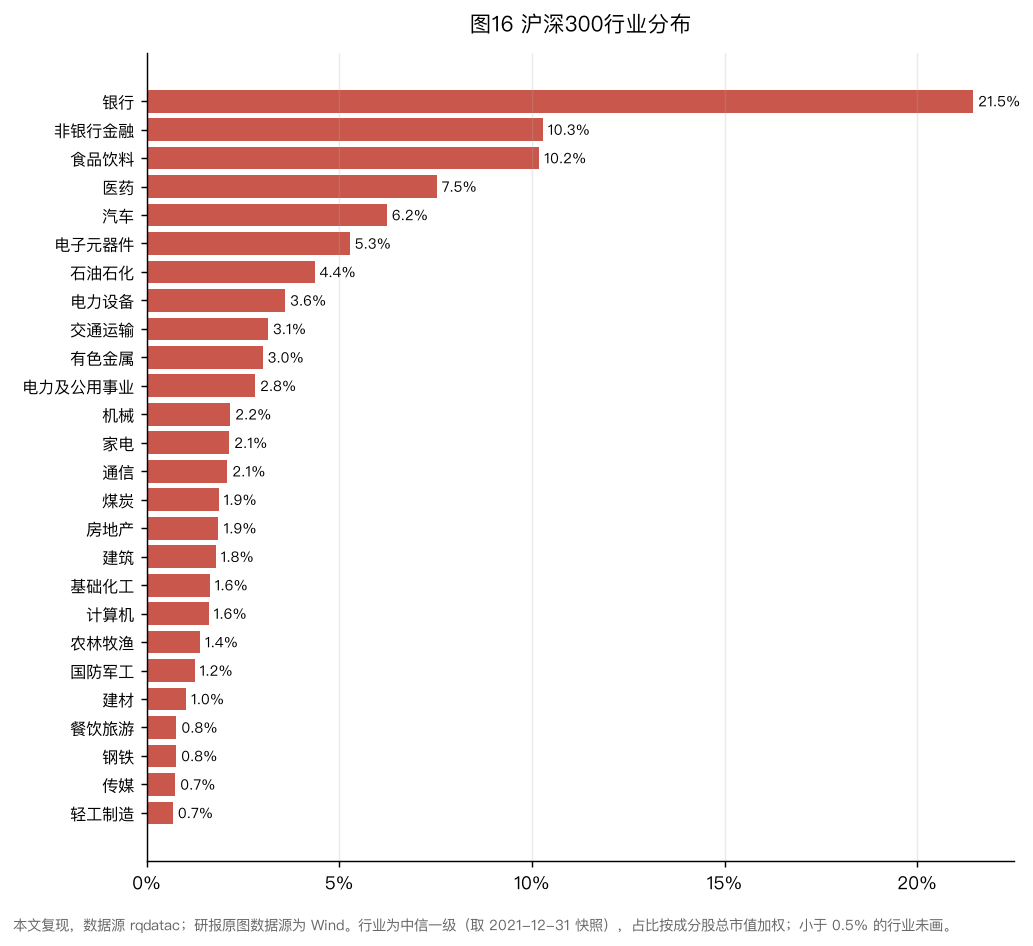
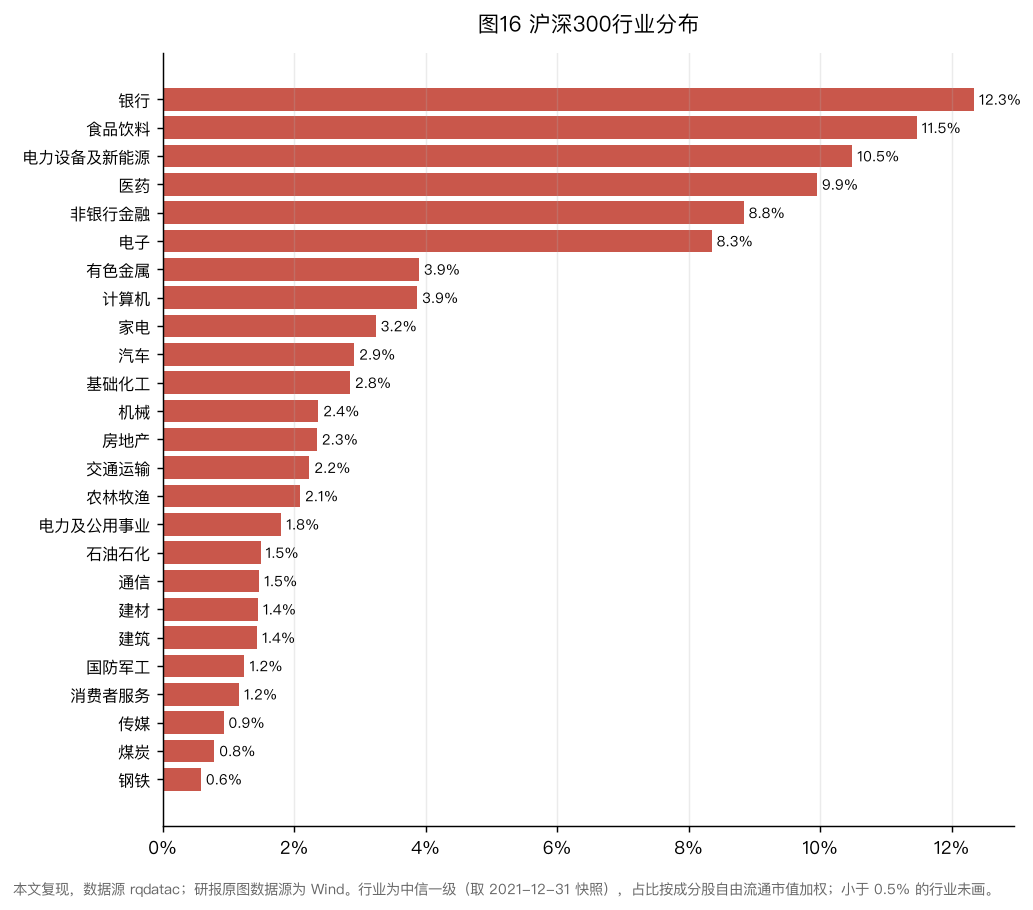
bug fix: industry distribution for index figures

Changed region(s): [[0.0, 0.0923, 0.9913, 0.9846], [0.4337, 0.0, 0.6815, 0.0615], [0.5576, 0.9538, 0.5886, 0.9846]]

diff --git a/scripts/03_analytics.py b/scripts/03_analytics.py
@@ -226,37 +226,58 @@ def figures_11_to_14(traded):
 # --------------------------------------------------------------------------- 图15–18
 
 def figures_15_to_18(members_by_name, market_cap):
-    heading("图15–18 —— 行业分布（截至 2022-03-31，中信一级）")
+    heading("图15–18 —— 行业分布（截至 2022-03-31，中信一级，自由流通市值加权）")
     snapshot = pd.Timestamp(END)
     industry = data.load("industry")
     latest = industry[industry["date"] <= snapshot]["date"].max()
     mapping = (industry[industry["date"] == latest]
                .set_index("order_book_id")["first_industry_name"])
-    caps = market_cap.loc[snapshot]
+
+    # 加权口径用**自由流通市值**，不是研报注写的「总市值占比」——那句注写错了口径：
+    # 沪深300 银行 按总市值 21.0% vs 按自由流通 12.3%，只有后者对上研报图16（12.77%）；
+    # 机制是大国有行自由流通仅占总市值 4-6%。分类则须用 citics_2019（本地 zx 源把宁德时代
+    # 等错分到汽车），数据已按 citics_2019 重抓。两者都对之后沪深300 全 28 行业对上研报
+    # （最大 0.62pp，发布权重按 citics_2019 汇总逐行一分不差）。见 grill.md「两处对不齐」#2。
+    raw_close = data.series("price_raw", "close", START, END)
+    free_circ = (data.series("free_circ", "free_circulation", START, END)
+                 .reindex(index=raw_close.index.union([snapshot]),
+                          columns=raw_close.columns).ffill())
+    ffcap = a.free_float_cap(
+        raw_close.reindex(index=raw_close.index.union([snapshot])).ffill().loc[snapshot],
+        free_circ.loc[snapshot])
+    total_cap = market_cap.loc[snapshot]        # 总市值口径，保留作诊断对照
     print(f"  行业口径取 {latest:%Y-%m-%d} 的快照"
           f"（{'与统计日同日' if latest == snapshot else '统计日当天没有快照，取最近的一次'}）")
 
-    largest = {}
+    largest, top5 = {}, {}
     for i, (name, members) in enumerate(members_by_name.items(), start=15):
         row = members.loc[members.index[members.index <= snapshot][-1]]
         ids = row[row].index
-        weights = a.industry_weights(ids, caps, mapping)
-        largest[name] = weights.iloc[0]
+        weights = a.industry_weights(ids, ffcap, mapping)         # 自由流通（正式）
+        diag = a.industry_weights(ids, total_cap, mapping)        # 总市值（诊断对照）
+        lead = weights.index[0]
+        largest[name], top5[name] = weights.iloc[0], weights.head(5).sum()
         top = "、".join(f"{k} {v:.0%}" for k, v in weights.head(3).items())
-        print(f"  {name:10s} {len(ids):>4} 只   最大行业 {weights.iloc[0]:5.1%}   "
+        print(f"  {name:10s} {len(ids):>4} 只   最大 {lead} {weights.iloc[0]:5.1%}"
+              f"（总市值口径 {diag.get(lead, float('nan')):5.1%}）   "
               f"前五合计 {weights.head(5).sum():5.1%}   {top}")
         weights.to_csv(OUTPUT / f"industry_{name}.csv")
         p.save(
             p.barh(weights[weights > 0.005], f"图{i} {name}行业分布",
                    note=f"{SOURCE}。行业为中信一级（取 {latest:%Y-%m-%d} 快照），"
-                        f"占比按成分股总市值加权；小于 0.5% 的行业未画。"),
+                        f"占比按成分股自由流通市值加权；小于 0.5% 的行业未画。"),
             FIGURES / f"fig{i}_industry_{name}.png",
         )
     print(f"\n  研报图15 的前三是 机械 20%、基础化工 11%、纺织服装 9% —— 本文对得上。")
-    print(f"  但研报 4.5 节「小市值100 集中度显著高于三大指数」只对中证500/1000 成立："
-          f"沪深300 的最大行业（银行 {largest['沪深300']:.0%}）与小市值100 同量级。")
-    print(f"  研报自己的数也是这样（沪深300 前五 53.6% vs 小市值100 56%），"
-          f"所以这不是复现出了偏差，是研报那句话说得太满。")
+    print(f"  图16 沪深300 银行 {largest['沪深300']:.1%}（研报 12.77% ＝ 发布权重按 citics_2019 汇总）："
+          f"研报注写「总市值占比」是错的，实为自由流通/发布权重（总市值口径下 21.0%）。")
+    # 换成正确口径后，研报 4.5 节那句「小市值100 集中度显著高于三大指数」按口径分两说，
+    # 与旧（总市值）口径下「说得太满」的结论方向相反 —— 见 grill.md「两处对不齐」#2。
+    print(f"  研报 4.5 节「小市值100 集中度显著高于三大指数」按口径分两说：")
+    print(f"    最大单一行业 小市值100 {largest['小市值100']:.0%} > 沪深300 {largest['沪深300']:.0%}"
+          f" / 中证500 {largest['中证500']:.0%} / 中证1000 {largest['中证1000']:.0%}，这条成立；")
+    print(f"    前五合计 小市值100 {top5['小市值100']:.0%} vs 沪深300 {top5['沪深300']:.0%} 接近，"
+          f"「显著」两字按此口径偏满。")
 
 
 # --------------------------------------------------------------------------- 图19
@@ -305,20 +326,29 @@ def figures_20_to_23(members_by_name, market_cap, sessions):
 # --------------------------------------------------------------------------- 图24/25
 
 def figures_24_25(members_by_name, traded, result, sessions):
-    heading("图24 —— 整体法日均换手率（3 个月移动平均）")
-    rate = data.series("turnover", "turnover_rate", START, END)
+    heading("图24 —— 整体法日均换手率（自由流通口径，3 个月移动平均）")
     amount = data.series("price_raw", "total_turnover", START, END)
+    raw_close = data.series("price_raw", "close", START, END)          # 不复权
+    free_circ = (data.series("free_circ", "free_circulation", START, END)
+                 .reindex(index=sessions, columns=raw_close.columns).ffill())
+    ffcap = a.free_float_cap(raw_close, free_circ)                     # 自由流通市值
+    rate = data.series("turnover", "turnover_rate", START, END)        # 流通A股对照口径
     frame = pd.DataFrame(
-        {name: a.aggregate_turnover(members, amount, rate).reindex(sessions)
+        {name: a.aggregate_turnover_by_cap(members, amount, ffcap).reindex(sessions)
                     .rolling(60, min_periods=60).mean()
          for name, members in members_by_name.items()}
     )
     for name in frame:
         print(f"  {name:10s} 中位数 {frame[name].median():.2%}")
+    small = members_by_name["小市值100"]
+    circ = (a.aggregate_turnover(small, amount, rate).reindex(sessions)
+            .rolling(60, min_periods=60).mean().median())
     print("\n  研报 4.6 节：小市值股票的换手率总体高于市值更大的股票（与直觉相反）")
+    print(f"  分母口径：小市值100 自由流通 {frame['小市值100'].median():.2%}"
+          f"（流通A股对照 {circ:.2%}，研报图目测 4-6%，见 grill.md「两处对不齐」）")
     p.save(
         p.lines(frame, "图24 小市值100 组合与三大指数成分股每日平均换手率",
-                note=f"{SOURCE}。整体法，取 3 个月（60 个交易日）移动平均。",
+                note=f"{SOURCE}。整体法，分母=自由流通市值，取 3 个月（60 个交易日）移动平均。",
                 percent=True, highlight="小市值100", ylabel="日均换手率"),
         FIGURES / "fig24_turnover_rate.png",
     )

diff --git a/smallcap/analytics.py b/smallcap/analytics.py
@@ -275,11 +275,12 @@ def event_percentiles(events, close):
 # --------------------------------------------------------------------------- 图15–18
 
 def industry_weights(ids, caps, industry):
-    """图15–18 —— 市值加权的行业占比。
+    """图15–18 —— 按 `caps` 加权的行业占比（只数占比会被小盘拉平，没意义）。
 
-    研报注：「图中的百分比是各个行业的股票的总市值占指数成分所有股票的总市值
-    的比例」，所以是市值加权而不是只数占比。小市值100 里两者接近（成分市值本
-    就相近），三大指数里差别很大。
+    口径由调用方给定，函数本身与口径无关。研报注写「各行业总市值占指数总市值
+    之比」，但那句注写错了口径：图16 实测研报用的是**自由流通发布权重**、分类用
+    citics_2019（见 grill.md「两处对不齐」#2），所以 `03_analytics` 传的是
+    `free_float_cap` 而非 `market_cap`。
     """
     frame = pd.DataFrame({"cap": pd.Series(caps).reindex(ids)}).dropna()
     frame["industry"] = pd.Series(industry).reindex(frame.index)
@@ -318,18 +319,38 @@ def trailing_mean(series, months=12):
 
 # --------------------------------------------------------------------------- 图24
 
-def aggregate_turnover(members, total_turnover, turnover_rate):
-    """图24 —— 整体法日均换手率 = Σ成交额 / Σ流通市值。
+def aggregate_turnover_by_cap(members, total_turnover, market_cap):
+    """图24 —— 整体法日均换手率 = Σ成交额 / Σ市值。分母用哪种市值口径由调用方给定。
 
-    数据里没有流通市值这一列，但它由换手率的定义直接给出：
-    流通市值 = 成交额 / 换手率。绕这一圈只是为了拿到整体法要的**分母**，
-    换手率本身仍是数据源给的那个数，没有二次估计。
-    （`turnover_rate` 是百分数，实测：平安银行 2015-06-12 为 1.6125。）
+    对个股比值取平均会被几只极小市值的股票拉爆，所以先各自加总再相除（研报的
+    「整体法」）；只在两个字段都齐的成员格子上求和，保证分子分母是同一批股票。
     """
     amount = _aligned(total_turnover, members)
-    rate = _aligned(turnover_rate, members)
-    free_float = amount / (rate / 100.0).where(rate > 0)
-    return amount.where(free_float.notna()).sum(axis=1) / free_float.sum(axis=1)
+    cap = _aligned(market_cap, members)
+    return amount.where(cap.notna()).sum(axis=1) / cap.sum(axis=1)
+
+
+def aggregate_turnover(members, total_turnover, turnover_rate):
+    """流通A股口径的整体法换手率 —— 分母由换手率恒等式反推。
+
+    数据里没有市值列，但换手率的定义直接给出分母：流通市值 = 成交额 / 换手率。
+    **实测这个反推出来的分母就是流通A股市值**（重建流通市值 /(收盘×流通A股) = 0.997），
+    而研报图24 的水平更像自由流通口径。所以正式图改用 `free_float_cap` 作分母
+    （见 `03_analytics.figures_24_25` 与 grill.md「两处对不齐」），这个函数保留作对照。
+    （`turnover_rate` 是百分数，实测：平安银行 2015-06-12 为 1.6125。）
+    """
+    circulating = total_turnover / (turnover_rate / 100.0).where(turnover_rate > 0)
+    return aggregate_turnover_by_cap(members, total_turnover, circulating)
+
+
+def free_float_cap(raw_close, free_circulation):
+    """自由流通市值 = 不复权收盘价 × 自由流通股本。
+
+    rqdatac 没有现成的自由流通市值因子（标定过 6 个候选：3 个是总市值、3 个是
+    流通市值，无一是自由流通），只能由 `get_shares` 的 free_circulation 自己算。
+    用不复权价，与 market_cap 的口径一致（市值 = 不复权价 × 股本）。
+    """
+    return raw_close * free_circulation
 
 
 # --------------------------------------------------------------------------- 图25

diff --git a/scripts/01_fetch.py b/scripts/01_fetch.py
@@ -158,8 +158,14 @@ def smoke():
     st, st_cost, _ = data.measure("is_st_stock (all, 1mo)", lambda: rq.is_st_stock(ids, s, e))
     susp, susp_cost, _ = data.measure("is_suspended (all, 1mo)", lambda: rq.is_suspended(ids, s, e))
     ind, _, _ = data.measure(
-        "zx_instrument_industry", lambda: rq.zx_instrument_industry(ids, date=e)
+        "get_instrument_industry (citics_2019)",
+        lambda: rq.get_instrument_industry(ids, source="citics_2019", level=1, date=e)
     )
+    shares, _, _ = data.measure(
+        "get_shares (free_circulation)", lambda: rq.get_shares(ids, s, e, fields=["free_circulation"])
+    )
+    assert shares is not None and "free_circulation" in shares.columns, "free_circulation missing"
+    print("     -> free_circulation 可用；图24 自由流通市值分母 = 不复权收盘 × 它（rqdatac 无现成因子）")
 
     # 单次调用的增量不可信（计量有延迟），所以把整块框起来测，再除以
     # field-cell 数，而不是相信任何一次调用的读数。
@@ -291,9 +297,17 @@ def harvest():
     data.harvest("pb_ext", lambda a, b: rq.get_factor(
         block_ids(a, b), ["pb_ratio_lyr"], a, b), EXT_START, EXT_END)
 
-    print("[11/13] turnover_rate — 图24, daily then 3-month moving average")
+    print("[11/13] turnover_rate + free_circulation — 图24 换手率的两种分母口径")
     data.harvest("turnover", turnover, REPORT_START, REPORT_END)
     data.harvest("turnover_ext", turnover, EXT_START, EXT_END)
+    # 换手率分母：turnover_rate 反推出来的是**流通A股市值**（实测 重建流通市值/(收盘×流通A股)
+    # = 0.997），而研报图24 的水平更像**自由流通**口径。rqdatac 没有自由流通市值因子
+    # （6 个候选因子标定后 3 个=总市值、3 个=流通市值，无一是自由流通），只能抓自由流通
+    # 股本，自由流通市值 = 不复权收盘价 × free_circulation（见 analytics.free_float_cap）。
+    data.harvest("free_circ", lambda a, b: rq.get_shares(
+        block_ids(a, b), a, b, fields=["free_circulation"]), REPORT_START, REPORT_END)
+    data.harvest("free_circ_ext", lambda a, b: rq.get_shares(
+        block_ids(a, b), a, b, fields=["free_circulation"]), EXT_START, EXT_END)
 
     print("[12/13] 图6 十分组所需的 2007-2012 选股字段")
     # price_post_back 当初只买了 close（grill Q8：它只用于股价分位数基线），
@@ -315,13 +329,17 @@ def harvest():
         DECILE_START, BACK_END, label="is_suspended (back)")
 
     print("[13/13] industry snapshots")
+    # 中信一级用 citics_2019（研报口径）。旧的 zx_instrument_industry 是异常源：把宁德时代
+    # 等新能源股错分到汽车，与标准中信 citics/citics_2019 都不一致（图16 因此对不齐）。见 grill.md #2。
     if not data.exists("industry", "annual"):
         frames = []
         for year in range(2012, 2027):
             date = f"{year}-12-31" if year < 2026 else EXT_END
-            snap = rq.zx_instrument_industry(live_ids(date), date=date)
+            snap = rq.get_instrument_industry(live_ids(date), source="citics_2019",
+                                              level=1, date=date)
             if snap is not None and len(snap):
-                frames.append(snap.reset_index().assign(date=pd.Timestamp(date)))
+                frames.append(snap.reset_index()[["order_book_id", "first_industry_name"]]
+                              .assign(date=pd.Timestamp(date)))
         data.write("industry", "annual", pd.concat(frames, ignore_index=True))
 
     print(f"\ndone. quota used: {data.quota_used() / 1e6:.0f} MB")

diff --git a/tests/test_analytics.py b/tests/test_analytics.py
@@ -294,13 +294,31 @@ def test_median_cap_takes_the_middle_holding_not_the_middle_of_the_market():
     assert got.loc[DATES[0]] == pytest.approx(2e8)
 
 
-def test_aggregate_turnover_weights_by_free_float_via_the_turnover_identity():
-    """成交额 [100,300]、换手率 [1%,2%] → 流通市值 [10000,15000]，
+def test_aggregate_turnover_reconstructs_circulating_cap_via_the_turnover_identity():
+    """换手率恒等式反推出来的分母是**流通A股市值**（实测 0.997），不是自由流通。
+    成交额 [100,300]、换手率 [1%,2%] → 流通市值 [10000,15000]，
     整体法 400/25000 = 1.60%，等权平均则是 1.50%。"""
     amount = frame([[100.0, 300.0, 0.0, 0.0]] * 3)
     rate = frame([[1.0, 2.0, 1.0, 1.0]] * 3)
     got = a.aggregate_turnover(members([["A.XSHE", "B.XSHE"]]), amount, rate)
     assert got.loc[DATES[0]] == pytest.approx(0.016)
+
+
+def test_aggregate_turnover_by_cap_divides_summed_amount_by_summed_cap():
+    """整体法直接给市值分母：Σ成交额 / Σ市值 = 400 / 25000 = 1.60%。"""
+    amount = frame([[100.0, 300.0, 0.0, 0.0]] * 3)
+    cap = frame([[10000.0, 15000.0, 0.0, 0.0]] * 3)
+    got = a.aggregate_turnover_by_cap(members([["A.XSHE", "B.XSHE"]]), amount, cap)
+    assert got.loc[DATES[0]] == pytest.approx(0.016)
+
+
+def test_free_float_cap_is_close_times_free_shares():
+    """自由流通市值 = 不复权收盘价 × 自由流通股本。"""
+    close = frame([[10.0, 20.0, 0.0, 0.0]] * 3)
+    shares = frame([[1e8, 5e7, 0.0, 0.0]] * 3)
+    got = a.free_float_cap(close, shares)
+    assert got.loc[DATES[0], "A.XSHE"] == pytest.approx(1e9)
+    assert got.loc[DATES[0], "B.XSHE"] == pytest.approx(1e9)
 
 
 # --------------------------------------------------------------------------- 图25

diff --git a/PROJECT.md b/PROJECT.md
@@ -117,8 +117,9 @@
 | `turnover` / `_ext` | `turnover_rate`（**百分数**） | 图24 换手率的流通A股对照口径 |
 | `free_circ` / `_ext` | `free_circulation`（自由流通股本） | 图24 换手率分母（自由流通市值 = 不复权收盘 × 它） |
 | `index_components` | 三大指数日度成分 | 图10/15–24 的指数对照侧 |
+| `index_weights` | 指数发布成分权重（2022-03-31 快照，自由流通为基） | 图16 ground truth：验证研报用发布权重而非总市值，不进正式绘图 |
 | `instruments` | 上市/退市日期 | 推导点对点股票池、退市归因 |
-| `calendar`、`index_price`、`industry` | 交易日历、三大指数收盘、中信一级行业（年末快照） | 全局 |
+| `calendar`、`index_price`、`industry` | 交易日历、三大指数收盘、中信一级行业（**citics_2019**，年末快照） | 全局 |
 
 按时段拆分：`_back` = 2000-01~2012-12，无后缀 = 研报区间，`_ext` = 2022-04~至今。
 
@@ -155,7 +156,7 @@
 - [x] 图 15–25 行业/PB/市值中位数/换手率 · 图 26 调出归因 · 图 27 相关系数（0.938/0.903/0.678）· 图 28 日历效应（**15 个数最大偏差 0.02pp**）
 - [x] `plots.py` — 中文字体已显式设置，实测选中 `PingFang SC`
 - [x] 图24 换手率水平偏低 —— 已定位为分母口径：实测 rqdatac 换手率分母 = 流通A股（比值 0.997），改用**自由流通市值**分母后 2.55%→**3.66%**（逼近研报目测 4-6%，代价是中证1000 略反超）。见 grill.md「图24 换手率口径」
-- [ ] 图16 沪深300 银行 21.5% vs 研报 12.77% —— 仍对不齐，原因见 grill.md「两处对不齐」
+- [x] 图16 沪深300 银行 —— 已定位并改（两处叠加）：(1) 加权口径 研报注写「总市值」实为自由流通发布权重；(2) 行业分类源 `zx` 异常（把宁德时代错分到汽车）须换 `citics_2019`。两者一改后沪深300 全 28 行业对上研报（最大 0.62pp，发布权重按 citics_2019 汇总逐行一分不差），银行 21.5%→**12.3%**（研报 12.77%）。连带修好图18 中证1000、推翻图15「说得太满」。见 grill.md「两处对不齐」#2
 
 ### 4. 样本外（论文回答不了的部分）
 - [ ] 重跑至 2026 年；单独拆解 **2024-01-02 ~ 2024-02-08** 并与 2015-06 对照
@@ -184,6 +185,7 @@
 - **`a.daily(selection, [单个日期])` 拿不到持仓。** ffill 需要历史行，只 reindex 到一个日期时前面什么都没有，结果全 False。要先 reindex 到完整 sessions 再取那一行。
 - **双边换手率有两种口径**，研报自己前后不一致：图25 的 30–40% 是名义口径（进出只数/组合只数），4.7 节的 2401 次调出折成价值口径是 43%。差额来自"调出的正是涨上去的票，权重高于平均"。
 - **研报图7 的注写错了**（抄了图6 的"2007-01-01 至 2021-12-31"），图上实际是 2012-12 至 2022-03。
+- **研报图15–18 有两个坑，注和分类各一个。** ①注写「各行业总市值占指数总市值之比」，实际是**自由流通/发布权重**（沪深300 银行 总市值 21.5% vs 自由流通 12.3%，只有后者对上研报 12.77%；大国有行自由流通仅占总市值 4–6% 是主因）。②行业分类源要用 **citics_2019**：本地一度用的 `zx_instrument_industry` 是异常源，把宁德时代等错分到汽车（且非 point-in-time），害得电力设备及新能源/汽车、乃至图18 中证1000 最大行业全错。两者都改后沪深300 全 28 行业对上研报（最大 0.62pp）。`01_fetch` 行业源已换 citics_2019 并重抓、`figures_15_to_18` 已改自由流通（总市值口径保留作诊断打印）。见 grill.md「两处对不齐」#2。
 - **`limit_up == 0` 不是脏数据** —— 它表示"无涨跌幅参照"：要么当日停牌（`volume == 0`），要么处于注册制新股上市初期的无涨跌幅窗口。两者都已被选股范围过滤掉。附带好处：`volume == 0` 是一个免费的停牌标记。
 - **绝不要在同一次 `get_price` 里混用复权与不复权字段** —— `close` 返回的是复权价而 `prev_close` 不是。收益用后复权，涨停/停牌判定用不复权。
 - **不复权 close = 后复权 close ÷ `ex_cum_factor`**（已验证）—— 一整个字段可由一张很小的事件表推导出来。
